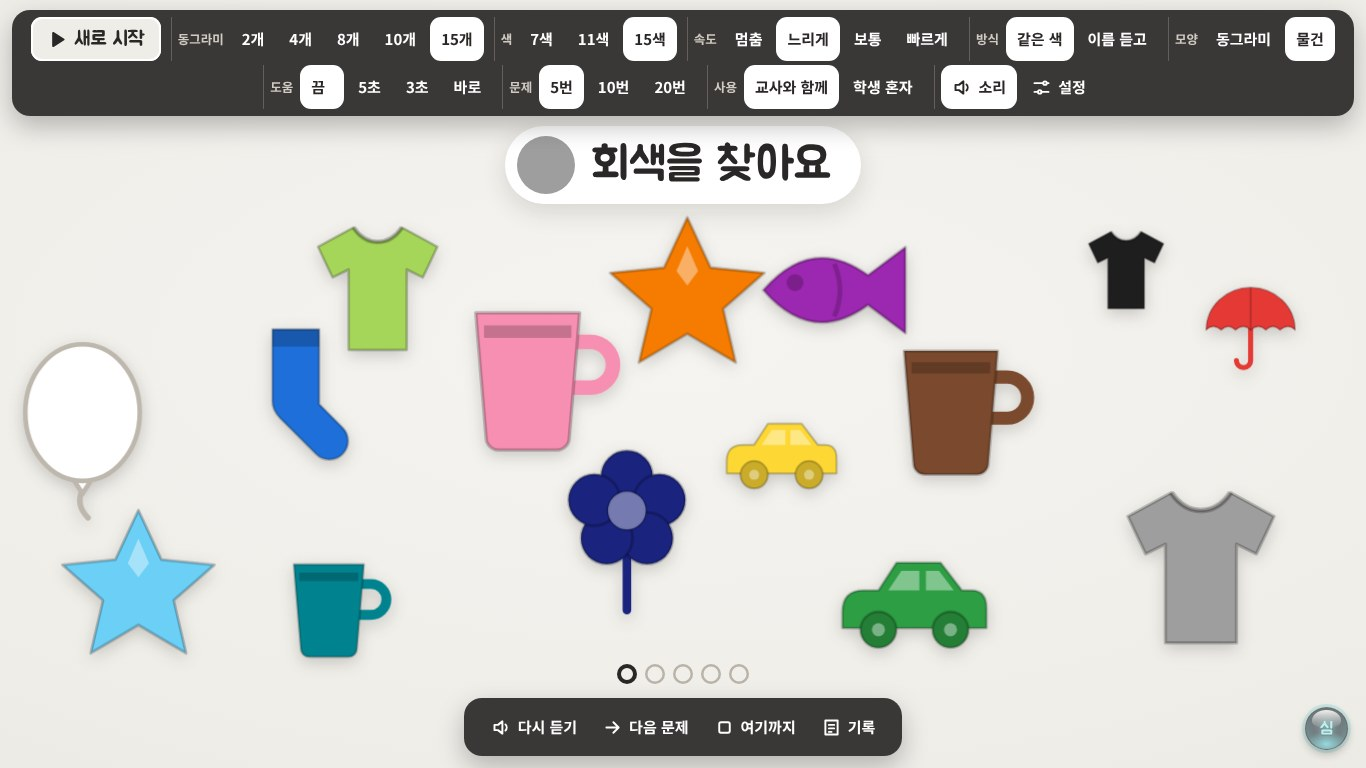
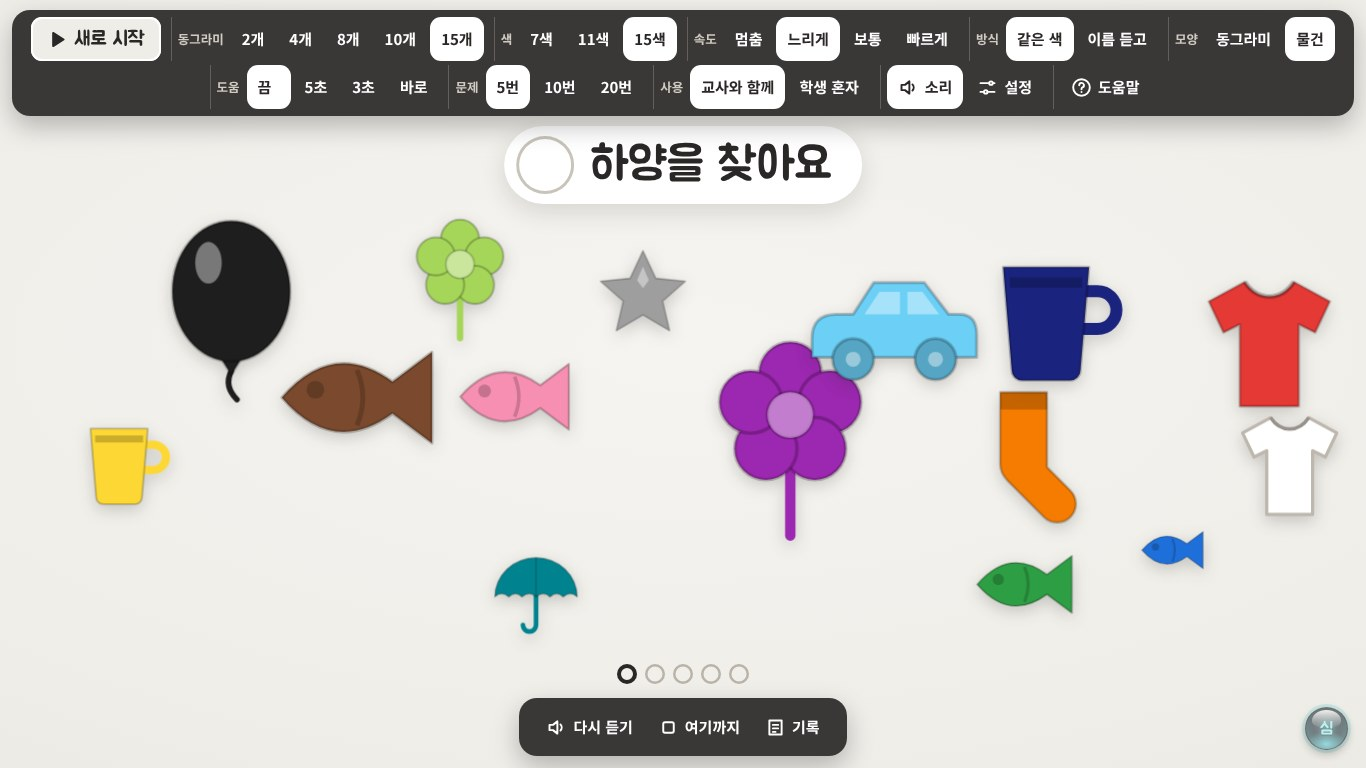
Add files via upload

diff --git a/003/rainbow-finder.html b/003/rainbow-finder.html
@@ -180,6 +180,20 @@ body.admin #adminBtn{opacity:.6;border-color:rgba(10,20,26,.8);
   .pa-log td,.pa-log th{border:1px solid #999;padding:1.2mm 2mm;text-align:left}
 }
 @media (prefers-reduced-motion:reduce){.bub.pop,.bub.fade,.bub.dim{transition:none}}
+/* ---------- 도움말: 말풍선 둘러보기 ---------- */
+#tour{position:fixed;inset:0;z-index:70;display:none}
+#tour.show{display:block}
+#tourHole{position:fixed;border-radius:14px;box-shadow:0 0 0 9999px rgba(20,18,16,.58);transition:all .25s ease;pointer-events:none}
+#tourTip{position:fixed;width:min(340px,calc(100% - 24px));background:#fff;color:var(--ink);border-radius:16px;box-shadow:0 14px 40px rgba(0,0,0,.3);padding:16px 18px 12px;transition:top .25s ease,left .25s ease;font-family:var(--f-body)}
+#tourTip::before{content:"";position:absolute;left:var(--ax,40px);width:16px;height:16px;background:#fff;transform:rotate(45deg)}
+#tourTip.below::before{top:-7px} #tourTip.above::before{bottom:-7px}
+#tourTip h4{margin:0 0 6px;font-size:18px;font-family:var(--f-display);font-weight:400}
+#tourTip p{margin:0;font-size:14.5px;line-height:1.6}
+.tour-foot{display:flex;align-items:center;justify-content:space-between;margin-top:12px}
+.tour-foot span{font-size:12.5px;color:var(--muted);font-weight:700}
+.tour-foot div{display:flex;gap:6px}
+.tour-foot button{border:0;border-radius:10px;min-height:40px;padding:6px 14px;font-weight:700;font-size:14px;background:var(--soft);color:var(--ink);font-family:var(--f-body)}
+.tour-foot button.next{background:var(--ink);color:#fff}
 </style>
 </head>
 <body class="setup">
@@ -197,6 +211,8 @@ body.admin #adminBtn{opacity:.6;border-color:rgba(10,20,26,.8);
 <button id="adminBtn" type="button" aria-label="교사 모드: 3초 동안 누르기"><span class="ab-label" id="abLabel">charum</span></button>
 <div id="printArea"></div>
 
+<div id="tour"><div id="tourHole"></div><div id="tourTip" class="below"><h4 id="tourTitle"></h4><p id="tourText"></p>
+  <div class="tour-foot"><span id="tourStep"></span><div><button type="button" id="tourEnd">그만</button><button type="button" class="next" id="tourNext">다음</button></div></div></div></div>
 <script>
 "use strict";
 
@@ -233,7 +249,8 @@ const ICON={
   print:'<svg class="ic" viewBox="0 0 24 24"><path d="M6 9V3h12v6M6 18H4v-7h16v7h-2M7 14h10v7H7z"/></svg>',
   log:'<svg class="ic" viewBox="0 0 24 24"><path d="M5 4h14v16H5zM9 9h6M9 13h6M9 17h3"/></svg>',
   sndOff:'<svg class="ic" viewBox="0 0 24 24"><path d="M4 9h4l5-4v14l-5-4H4z"/><path d="M17 9.5l5 5M22 9.5l-5 5"/></svg>',
-  gear:'<svg class="ic" viewBox="0 0 24 24"><path d="M4 7h10M18 7h2M4 17h4M12 17h8"/><circle cx="16" cy="7" r="2"/><circle cx="10" cy="17" r="2"/></svg>'
+  gear:'<svg class="ic" viewBox="0 0 24 24"><path d="M4 7h10M18 7h2M4 17h4M12 17h8"/><circle cx="16" cy="7" r="2"/><circle cx="10" cy="17" r="2"/></svg>',
+  q:'<svg class="ic" viewBox="0 0 24 24"><circle cx="12" cy="12" r="9.5"/><path d="M9.4 9.4a2.7 2.7 0 1 1 3.7 2.5c-.7.3-1.1.9-1.1 1.7v.5M12 17.2h.01"/></svg>'
 };
 
 /* ================= 상태 ================= */
@@ -433,24 +450,32 @@ function goFull(){ try{ const d=document.documentElement; if(document.fullscreen
 function leaveFull(){ try{ if(document.fullscreenElement) document.exitFullscreen().catch(()=>{}); else if(document.webkitFullscreenElement) document.webkitExitFullscreen(); }catch(e){} }
 document.addEventListener('contextmenu',e=>{ if(!document.body.classList.contains('setup')) e.preventDefault(); });
 
-/* ================= 교사 모드 버튼 (3초 누르기) ================= */
+/* ================= 교사 모드 버튼 =================
+   켤 때: 3초 동안 누르기 (학생이 실수로 켜지 않게) / 끌 때: 한 번 누르면 바로 학생 화면(전체 화면) */
 (function(){
-  const ab=$('adminBtn'); let raf=0, t0=0, on=false;
+  const ab=$('adminBtn'); let raf=0, t0=0, on=false, justOpened=false, ignoreUntil=0;
   const stop=()=>{on=false; cancelAnimationFrame(raf); ab.style.setProperty('--p',0);};
   ab.addEventListener('pointerdown',e=>{
-    e.preventDefault(); e.stopPropagation(); try{ab.setPointerCapture(e.pointerId);}catch(_){}
+    e.preventDefault(); e.stopPropagation();
+    if(S.admin) return; /* 끄기는 click에서 바로 */
+    try{ab.setPointerCapture(e.pointerId);}catch(_){}
     on=true; t0=performance.now();
     const tick=()=>{ if(!on) return;
       const p=Math.min(1,(performance.now()-t0)/3000); ab.style.setProperty('--p',p);
-      if(p>=1){stop(); setAdmin(!S.admin); return;} raf=requestAnimationFrame(tick); };
+      if(p>=1){stop(); justOpened=true; setAdmin(true); return;} raf=requestAnimationFrame(tick); };
     raf=requestAnimationFrame(tick);
   });
-  ['pointerup','pointercancel','lostpointercapture'].forEach(ev=>ab.addEventListener(ev,stop));
+  ['pointerup','pointercancel','lostpointercapture'].forEach(ev=>ab.addEventListener(ev,()=>{ stop(); if(justOpened){ justOpened=false; ignoreUntil=performance.now()+500; } }));
+  ab.addEventListener('click',e=>{
+    e.stopPropagation();
+    if(performance.now()<ignoreUntil) return; /* 3초 눌러 켠 직후 손을 뗄 때 생기는 click은 무시 */
+    if(S.admin){ setAdmin(false); if(S.game) goFull(); }
+  });
   ab.addEventListener('contextmenu',e=>e.preventDefault());
 })();
 function setAdmin(on){
   S.admin=on; document.body.classList.toggle('admin',on);
-  $('adminBtn').setAttribute('aria-label', on?'교사 모드 끄기: 3초 동안 누르기':'교사 모드: 3초 동안 누르기');
+  $('adminBtn').setAttribute('aria-label', on?'교사 모드 끄기: 한 번 누르기':'교사 모드: 3초 동안 누르기');
   $('abLabel').textContent=on?'심':'charum';
   if(!on) $('logPop').hidden=true;
   renderDocks();
@@ -461,13 +486,14 @@ function setAdmin(on){
 function renderDocks(){
   const g=S.game, ended=document.body.classList.contains('ended'), playing=!!g&&!ended;
   const b=(act,label,pressed,extra='')=>`<button type="button" data-a="${act}" ${pressed!=null?`aria-pressed="${pressed}"`:''} ${extra}>${label}</button>`;
-  const set=(key,lbl)=>`<div class="g"><span class="lbl">${lbl}</span>${Object.keys(OPT[key]).map(v=>b(key+':'+v,OPT[key][v].replace(' 찾기',''),String(S[key])===v,key==='choices'&&!okChoice(+v,S.colors)?'disabled':'')).join('')}</div>`;
+  const set=(key,lbl)=>`<div class="g" id="g-${key}"><span class="lbl">${lbl}</span>${Object.keys(OPT[key]).map(v=>b(key+':'+v,OPT[key][v].replace(' 찾기',''),String(S[key])===v,key==='choices'&&!okChoice(+v,S.colors)?'disabled':'')).join('')}</div>`;
   /* 맨 앞: 바꾼 설정으로 새로 시작 */
   $('dockTop').innerHTML=`<div class="g">${b('start',ICON.start+'새로 시작',null,'class="go-btn"')}</div>`+set('choices','동그라미')+set('colors','색')+set('speed','속도')+set('way','방식')+set('look','모양')+set('help','도움')+set('rounds','문제')+
-    `<div class="g"><span class="lbl">사용</span>${b('mode:teacher','교사와 함께',S.mode==='teacher')}${b('mode:solo','학생 혼자',S.mode==='solo')}</div>`+
-    `<div class="g">${b('sound',S.sound?ICON.ear+'소리':ICON.sndOff+'소리 끔',S.sound)}${b('setup',ICON.gear+'설정')}${S.voiceNote?`<span class="note">${esc(S.voiceNote)}</span>`:''}</div>`;
+    `<div class="g" id="g-mode"><span class="lbl">사용</span>${b('mode:teacher','교사와 함께',S.mode==='teacher')}${b('mode:solo','학생 혼자',S.mode==='solo')}</div>`+
+    `<div class="g">${b('sound',S.sound?ICON.ear+'소리':ICON.sndOff+'소리 끔',S.sound)}${b('setup',ICON.gear+'설정')}${S.voiceNote?`<span class="note">${esc(S.voiceNote)}</span>`:''}</div>`+
+    `<div class="g">${b('tour',ICON.q+'도움말')}</div>`;
   $('dockBot').innerHTML = !g ? '' : playing
-    ? `<div class="g">${b('replay',ICON.ear+'다시 듣기')}${b('skip',ICON.skip+'다음 문제')}${b('stop',ICON.stop+'여기까지')}${b('log',ICON.log+'기록',!$('logPop').hidden)}</div>`
+    ? `<div class="g">${b('replay',ICON.ear+'다시 듣기')}${b('stop',ICON.stop+'여기까지')}${b('log',ICON.log+'기록',!$('logPop').hidden)}</div>`
     : `<div class="g">${b('again',ICON.redo+'다시 하기')}${b('log',ICON.log+'기록',!$('logPop').hidden)}</div><div class="g"><span class="lbl">${ICON.print.replace('class="ic"','class="ic" style="width:18px;height:18px;vertical-align:-4px"')} 출력</span>${b('print:student','학생용 색칠하기')}${b('print:teacher','교사용 기록')}</div>`;
 }
 function onDock(e){
@@ -488,10 +514,11 @@ function onDock(e){
     renderDocks(); return; }
   if(a==='sound'){ S.sound=!S.sound; store.set('sound',S.sound?'on':'off'); if(!S.sound) stopVoice(); renderDocks(); }
   if(a==='setup'){ leaveFull(); showSetup(); }
+  if(a==='tour'){ startTour(); return; }
   if(a==='replay') speak();
-  if(a==='skip') nextRound();
   if(a==='stop') endGame();
-  if(a==='again'||a==='start'){ $('logPop').hidden=true; startGame(); }
+  /* 새로 시작·다시 하기: 바꾼 설정으로 시작하고 바로 학생 화면(전체 화면) */
+  if(a==='again'||a==='start'){ $('logPop').hidden=true; setAdmin(false); startGame(); }
   if(a==='print') printSheet(v);
   if(a==='log'){ $('logPop').hidden=!$('logPop').hidden; renderLog(); renderDocks(); }
 }
@@ -534,7 +561,7 @@ function showSetup(){
       </div>
       <div class="row"><button class="btn" id="voiceTest" type="button">${ICON.ear}목소리 들어 보기</button><span class="status" id="voiceStatus"></span></div>
     </div>
-    <p class="hint" style="margin-top:14px">학생 화면에는 메뉴가 없어요. 오른쪽 아래 옅은 동그라미를 <b>3초 동안 누르면</b> 교사 메뉴(동그라미 수·색 수·속도·방식, 다시 듣기, 다음 문제, 여기까지, 기록, 출력, 설정)가 나타나요.</p>
+    <p class="hint" style="margin-top:14px">학생 화면에는 메뉴가 없어요. 오른쪽 아래 옅은 동그라미를 <b>3초 동안 누르면</b> 교사 메뉴(새로 시작, 동그라미 수·색 수·속도·방식, 다시 듣기, 여기까지, 기록, 출력, 설정)가 나타나요. 메뉴는 한 번 누르면 바로 닫혀요.</p>
     <div class="foot"><span class="status" id="startMsg" aria-live="polite"></span><button class="go" id="startBtn" type="button">시작</button></div>
   </div>`;
   const syncChoices=()=>{
@@ -812,15 +839,6 @@ function popSound(){
     o.connect(g2); g2.connect(c.destination); o.start(t); o.stop(t+0.15);
   }catch(e){}
 }
-/* 교사: 다음 문제 (기록 없이 넘김) */
-function nextRound(){
-  const g=S.game; if(!g||g.busy) return;
-  g.hist.push(null); g.i++;
-  g.bubs.forEach(o=>{ o.hold=false; o.pulse=false; });
-  if(g.i>=S.rounds){ endGame(); return; }
-  setTarget(pickOnScreen(g,g.target&&g.target.name));
-  speak(findLine(g.target));
-}
 function renderTrack(){
   const g=S.game;
   $('track').innerHTML=Array.from({length:S.rounds},(_,i)=>{
@@ -867,6 +885,55 @@ function fitBubs(){ const g=S.game; if(!g) return; const {W,H,top,bottom}=BD; g.
 
 /* ================= 시작 ================= */
 if(S.mode==='solo') showHome(); else showSetup();
+
+/* ================= 도움말: 교사 메뉴를 말풍선으로 하나씩 ================= */
+const TOUR_STEPS=[
+  {el:'#dockTop [data-a="start"]', t:'새로 시작', x:'바꾼 설정으로 처음부터 다시 해요. 메뉴는 닫히고 바로 학생 화면(전체 화면)이 돼요.'},
+  {el:'#g-choices', t:'동그라미', x:'한 번에 나오는 동그라미 수예요. 2개부터 15개까지. 하던 판에 바로 적용돼요.'},
+  {el:'#g-colors', t:'색', x:'나올 수 있는 색의 수예요. 7색 → 11색 → 15색으로 늘려 가요.'},
+  {el:'#g-speed', t:'속도', x:'동그라미가 움직이는 빠르기예요. "멈춤"이면 움직이지 않아요.'},
+  {el:'#g-way', t:'방식', x:'"같은 색"은 위에 보이는 색과 같은 것을 찾고, "이름 듣고"는 색 이름만 듣고 찾아요.'},
+  {el:'#g-look', t:'모양', x:'동그라미 대신 물건 모양으로 바꿔요. 같은 색을 여러 물건에서 찾는 연습(일반화)이에요.'},
+  {el:'#g-help', t:'도움', x:'정한 시간 안에 못 찾으면 정답이 천천히 커졌다 작아지며 알려 줘요. "바로"는 처음부터 알려 주는 무오류 학습이에요.'},
+  {el:'#g-rounds', t:'문제', x:'한 판에 찾을 문제 수예요.'},
+  {el:'#g-mode', t:'사용', x:'"학생 혼자"를 고르면 학생이 동그라미 수와 색 수를 고르고 스스로 시작해요.'},
+  {el:'#dockTop [data-a="sound"]', t:'소리', x:'색 이름을 읽어 주는 목소리와 효과음을 켜고 꺼요.'},
+  {el:'#dockTop [data-a="setup"]', t:'설정', x:'처음 설정 화면으로 가요. 목소리(Google · 기기)는 여기서 바꿔요.'},
+  {el:'#dockBot [data-a="replay"]', t:'다시 듣기', x:'지금 찾을 색을 한 번 더 들려줘요. 학생이 위쪽 안내를 눌러도 다시 들려줘요.'},
+  {el:'#dockBot [data-a="stop"]', t:'여기까지', x:'남은 문제를 하지 않고 지금까지로 끝내요.'},
+  {el:'#dockBot [data-a="again"]', t:'다시 하기', x:'같은 설정으로 한 판 더 해요. 바로 학생 화면이 돼요.'},
+  {el:'#dockBot [data-a="log"]', t:'기록', x:'문제마다 바로 맞힘, 도움 받아 맞힘, 잘못 고른 색을 보여 줘요.'},
+  {el:'#dockBot [data-a="print:student"]', t:'출력', x:'학생용 색칠하기와 교사용 기록을 A4 한 장으로 인쇄해요.'},
+  {el:'#adminBtn', t:'관리 버튼', x:'3초 누르면 교사 메뉴가 열려요(학생이 실수로 열지 않게). 메뉴가 열려 있을 때 한 번 누르면 하던 판 그대로 학생 화면으로 돌아가요.'}
+];
+const TOUR={on:false,i:0,list:[]};
+function startTour(){
+  $('logPop').hidden=true; renderDocks();
+  TOUR.list=TOUR_STEPS.filter(s=>document.querySelector(s.el)); TOUR.i=0; TOUR.on=true;
+  $('tour').classList.add('show'); showStep();
+}
+function showStep(){
+  const s=TOUR.list[TOUR.i]; if(!s) return endTour();
+  $('tourTitle').textContent=s.t; $('tourText').textContent=s.x;
+  $('tourStep').textContent=(TOUR.i+1)+' / '+TOUR.list.length;
+  $('tourNext').textContent=TOUR.i===TOUR.list.length-1?'끝':'다음';
+  placeTour();
+}
+function placeTour(){
+  const s=TOUR.list[TOUR.i]; if(!s) return; const el=document.querySelector(s.el); if(!el) return;
+  const r=el.getBoundingClientRect(), pad=6, hole=$('tourHole'), tip=$('tourTip');
+  Object.assign(hole.style,{left:(r.left-pad)+'px',top:(r.top-pad)+'px',width:(r.width+pad*2)+'px',height:(r.height+pad*2)+'px'});
+  const tw=tip.offsetWidth, th=tip.offsetHeight;
+  const below=r.bottom+pad+14+th<innerHeight-8 || r.top-pad-14-th<8;
+  const top=below?r.bottom+pad+14:r.top-pad-14-th, left=Math.min(Math.max(12,r.left+r.width/2-tw/2),innerWidth-tw-12);
+  tip.className=below?'below':'above'; tip.style.top=top+'px'; tip.style.left=left+'px';
+  tip.style.setProperty('--ax',Math.min(tw-28,Math.max(12,r.left+r.width/2-left-8))+'px');
+}
+function endTour(){ TOUR.on=false; $('tour').classList.remove('show'); }
+$('tourNext').addEventListener('click',()=>{ TOUR.i++; showStep(); });
+$('tourEnd').addEventListener('click',endTour);
+document.addEventListener('keydown',e=>{ if(TOUR.on&&e.key==='Escape') endTour(); });
+window.addEventListener('resize',()=>{ if(TOUR.on) placeTour(); });
 </script>
 </body>
 </html>

diff --git a/003/rainbow-finder_manual.html b/003/rainbow-finder_manual.html
@@ -75,12 +75,13 @@
 </div>
 
 <h3 style="margin:28px 0 8px;padding-bottom:4px;border-bottom:3px solid #2A2826;font-size:20px;">교사 모드</h3>
-<p style="margin:0 0 10px;">화면 오른쪽 아래의 작은 파란 유리알 버튼(<b>charum</b>)을 <b>3초 동안 누르면</b> 켜지고(<b>심</b>), 한 번 더 3초 누르면 꺼집니다.</p>
+<p style="margin:0 0 10px;">화면 오른쪽 아래의 작은 파란 유리알 버튼(<b>charum</b>)을 <b>3초 동안 누르면</b> 켜지고(<b>심</b>), <b>한 번</b> 누르면 바로 꺼지며 학생 화면(전체 화면)으로 돌아갑니다.</p>
 <img src="https://shim-sung-hyun.github.io/web_app/003/rainbow-finder05.jpg" alt="교사 모드 화면" style="display:block;width:100%;height:auto;border:1px solid #D6D1C8;border-radius:8px;margin:0 0 10px;">
 <ul style="margin:0 0 12px;padding-left:24px;">
-  <li style="margin-bottom:6px;"><b>위쪽 맨 앞 ▶ 새로 시작</b>: 바꾼 설정으로 처음부터 다시 시작합니다. 하는 중이든 끝난 뒤든 언제나 누를 수 있습니다.</li>
+  <li style="margin-bottom:6px;"><b>위쪽 맨 앞 ▶ 새로 시작</b>: 바꾼 설정으로 처음부터 다시 시작하고, 메뉴가 닫히며 바로 학생 화면(전체 화면)이 됩니다. 하는 중이든 끝난 뒤든 언제나 누를 수 있습니다.</li>
   <li style="margin-bottom:6px;"><b>위쪽</b>: 동그라미 수, 색 수, 속도, 방식(같은 색 · 이름 듣고), 모양(동그라미 · 물건), 도움(끔 · 5초 · 3초 · 바로), 문제 수, 사용(교사와 함께 · 학생 혼자), 소리, 설정. 동그라미 수·색 수·속도·방식은 하던 판에 바로 적용되고, 처음부터 하려면 <b>새로 시작</b>을 누릅니다. 설정 화면으로 돌아가지 않아도 됩니다(목소리 바꾸기만 설정 화면에서).</li>
-  <li style="margin-bottom:6px;"><b>아래쪽 (하는 중)</b>: 다시 듣기, 다음 문제, 여기까지, 기록.</li>
+  <li style="margin-bottom:6px;"><b>위쪽 끝 도움말</b>: 메뉴의 단추를 말풍선으로 하나씩 짚어 설명합니다.</li>
+  <li style="margin-bottom:6px;"><b>아래쪽 (하는 중)</b>: 다시 듣기, 여기까지, 기록.</li>
   <li style="margin-bottom:6px;"><b>아래쪽 (끝난 뒤)</b>: 다시 하기, 기록(문제마다 바로 맞힘 / 다시 해서 맞힘 / 도움 받아 맞힘, 먼저 누른 색, 우연히 맞힐 확률), 출력 두 가지.</li>
   <li style="margin-bottom:6px;"><b>출력 · 학생용 색칠하기</b>: 오늘 나온 색 이름과 빈 동그라미만 A4 한 장에 인쇄합니다. 크레파스로 이름에 맞게 색칠하며 다시 익힙니다.</li>
   <li style="margin-bottom:6px;"><b>출력 · 교사용 기록</b>: 설정, 바로 맞힘 비율과 우연히 맞힐 확률(예: 동그라미 4개면 25%), 색마다 결과와 대신 누른 색, 문제마다 기록을 A4 한 장에 인쇄합니다.</li>
